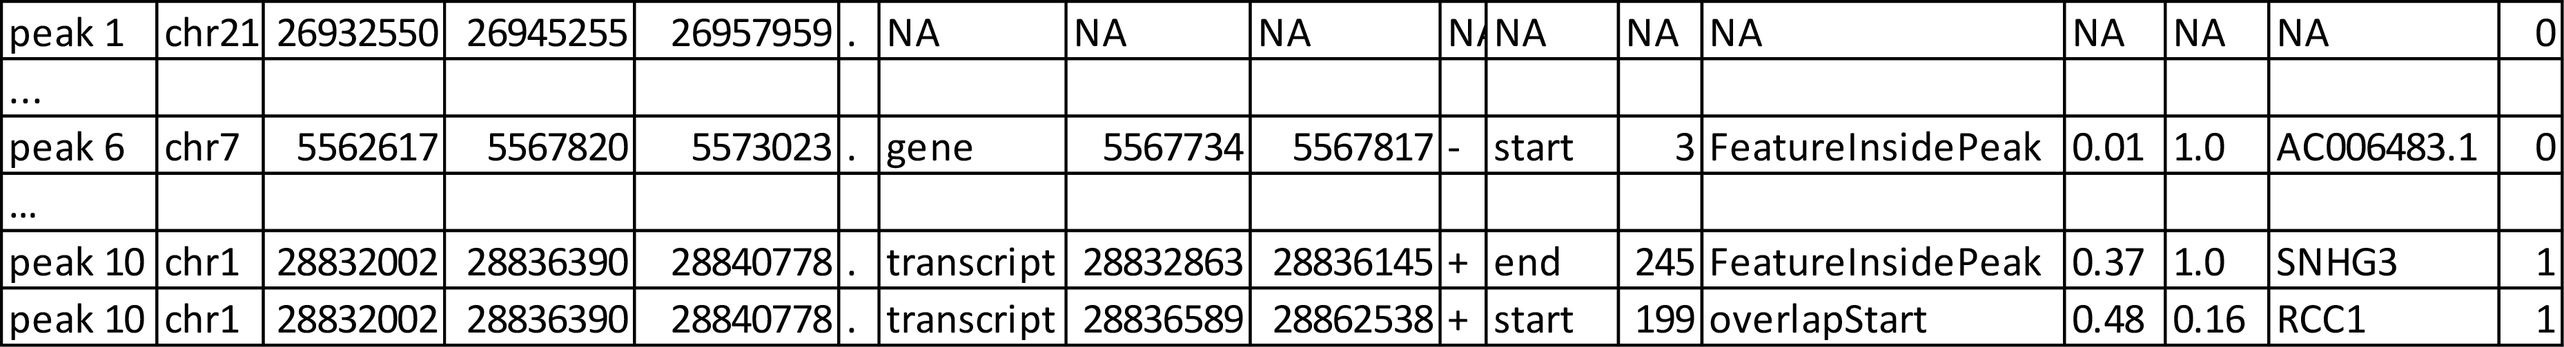
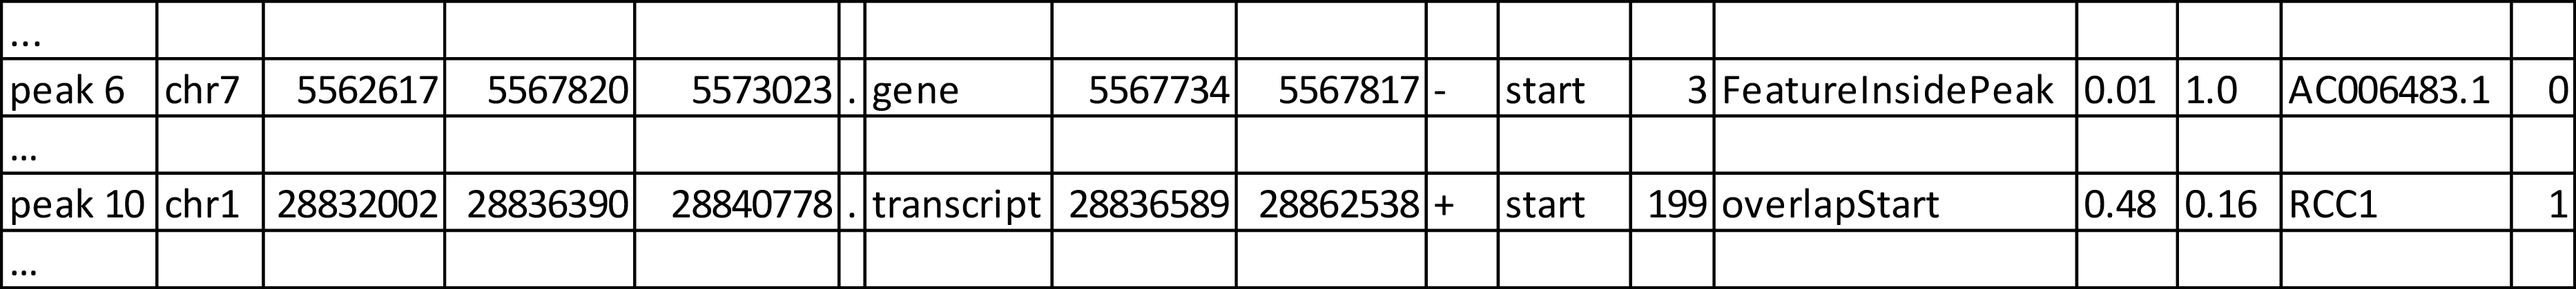
refreshed priority example

Changed region(s): [[0.0, 0.0, 1.0, 1.0]]

diff --git a/docs/uropa-example.md b/docs/uropa-example.md
@@ -44,7 +44,7 @@ Concerning the other output tables,
 
 
 **Note** : Similar cases of peaks being internally to the genomic region of a feature (and also features being internally to a peak region) 
-can be well-annotated using the key 'internals'. A example for this is presented in [TODO](todo).
+can be well-annotated using the key 'internals'. A example for this is presented in [Example 3](http://uropa.readthedocs.io/en/latest/uropa-example/#example-3-internals-key).
 
 
 
@@ -201,74 +201,57 @@ More than one query can be given, keeping the same gtf and bed files, allowing f
 If there are more queries, it is important to decide if they should be priorized. This can be done with the priority key in the config file.   
 The following examples illustrate how this can be beneficial for the annotation.
 
-The queries in the config file looks like the following.
-
 This example is based on POLR2A peaks annotated with the Ensembl genome. 
 Source files can be found here :[gtf and bed source files](http://uropa.readthedocs.io/en/latest/uropa-example/#used-peak-and-annotation-files)
 
-Configuration for the first annotation:
+Configuration for the first annotation with priority false:
 ```json
 {"queries": [{"feature":"gene", "distance":1000, "show.attributes":"gene_name"},     
-			{"feature":"transcript", "distance":1000 }], 
- "priority" : "False",
+			{"feature":"transcript", "distance":1000}], 
  "gtf":"Homo_sapiens.GRCh37.75_chr.gtf" ,
  "bed":"ENCFF001VFA.bed"
 }
 ```
 
-The above set of queries will allow UROPA to annotate peaks for genes and transcripts. As priority is False (default if no different value given),there is no feature priorized. 
-
-There can be three cases for the peak annotation: 
-
-* **Case 1**: No query gives any feature for annotating the peaks. 
-	
-* **Case 2**: One query gives a feature but the other not. 
-	
-* **Case 3**: Both queries validate features overlapping with the peaks.  
+The above set of queries will allow UROPA to annotate peaks for genes and transcripts. As priority is False (default), there is no query priorized. 
+As presented in the AllHits Table 6, there are valid annotations for peak 6 with both queries. The annotation for the feature gene would be presented in the FinalHits. In the BestperQuery_Hits both annotations with the minimum distance of 3 would be presented. 
+If there are multiple annotations with minimal distance, only the first one is represented in FinalHits.
+For peak 10, there are only valid annotations for the second query, the annotation for the gene *RCC1* correspond to the best annotation and would be resprented in the FinalHits. 
 
 ![table6](img/example-table-06.png)	
 	
-_Table 6: AllHits for two queries with priority='False'._
+_Table 6: AllHits for two queries with priority='False'.
 
-'peak_1' represents **Case 1**  where both queries validate no feature at all. In this case the peak is represented by 'NA' rows, for each query. 
-	
-**Case 2** is represented by 'peak_10', which has two annotations for the transcript feature but not the gene feature.       
-	
-'peak_6' is an example for the **Case 3** , with annotations for both queries. Transcripts (*ACTB*) are found by query 1 and a gene (*AC006483.1*) by query 0.
-	
-Concerning the other output tables, 
-
-* FinalHits will contain one NA row for peak_1 combining queries 0 and 1. The final hit for peak_6 will be the the hit for feature gene, distance 3bp. If there are more hits with same min distance for one peak, the first one will be displayed. Fore peak_10 the annotation for gene *RCC1* would be displayed.  
-
-* BestperQuery_Hits contains one NA row for both queries for peak_1. For peak_6 the best annotation for both queries would be represented, those with distance 3bp. The peak_10 will have one NA row for query 0 and the annotation for gene *RCC1* for query 1. 
+The column order is: peak_id, peak_chr, peak_start, peak_center, peak_end, peak_strand, feature, feat_start, feat_end, feat_strand, distance, feat_anchor, genomic_location, feat_ovl_peak, peak_ovl_feat, gene_name, gene_type, query_
 
 
-Configuration for the second annotation:
+
+Configuration for the second annotation with priority true:
 ```json
-{"queries": [	{"feature":"gene", "distance":1000, "show.attributes":"gene_name"}, 
-				{"feature":"transcript", "distance":1000 }], 
+{"queries":[{"feature":"gene", "distance":1000, "show.attributes":"gene_name"}, 
+			{"feature":"transcript", "distance":1000}], 
  "priority" : "True",
  "gtf":"Homo_sapiens.GRCh37.75_chr.gtf" ,
  "bed":"ENCFF001VFA.bed"
 }
 ```
 
-If 'priority' is 'True', UROPA will annotate peaks with the **first feature given** in the set of queries. Unless genes are not found for a peak, 'transcripts' will then be searched and validated by the query’s parameters in order to be assigned to a peak. The example is based on the same three cases, explained above.
-That is why there will be no peak in the output tables annotated for both features at the same time. 
-Each peak is allowed to have the 1st feature or the 2nd, or the 3rd, etc.
+If 'priority' is 'True', UROPA will annotate peaks with the **first feature given** in the set of queries. 
+Unless genes are not found for a peak, transcripts will then be validated by the query’s parameters in order to be assigned to a peak. 
+The example is based on the same cases as above but the AllHits Table 7 already looks different.
+Because for peak 6 there was a valid annotation for query 0, query 1 is not analyzed due to priorization. For peak 10, there was no valid annotation for query 0, thus query 1 was analyzed and valid annotation was identified. 
 
-The first difference to the example without priority is that in 'AllHits' [Table 4], the peaks with no annotation for both queries are merged in one line and both queries are reported.    
-This is why the entries for peaks without any annotation will look the same in 'AllHits' and 'BestHits'.
-In the case of  'peak_6'  there is an annotation for the priorized query 0, so the other query is not further analyzed. 
-    
-For 'peak_10' there was no annotation identified for the query 0, but two 'transcripts' are found for query-1. The annotation with the closest distance, *SNHG3*  is displayed at the BestHits (Table 5).	
-	
-![table7](img/example-table-07.png )
+** Attention ** 
+
+* For priority true there will not be an NA row for queries without valid annotations in case that one specified query provides a valid annotation. 
+* If there is no valid annotation for a peak across all queries, there is a combined NA row for all queries (NA NA ... NA 0,1)
+* The will be no BestperQuery_Hits if priority is true, because there is only one final annotation per peak
+
+![table7](img/example-table-07.png)
 _Table 7: AllHits with two queries with priority='True'.
 
 The column order is: peak_id, peak_chr, peak_start, peak_center, peak_end, peak_strand, feature, feat_start, feat_end, feat_strand, distance, feat_anchor, genomic_location, feat_ovl_peak, peak_ovl_feat, gene_name, gene_type, query_
-	
-So, in the case of 'priority' = True, the features are mutually exclusive, and the queries are parsed for valid hits in an escalating priority.
+
 	
 Used peak and annotation files 
 ------------------------------ 

diff --git a/docs/output.md b/docs/output.md
@@ -122,6 +122,8 @@ _Table 5: Uropa_BestperQuery_Hits for multiple queries
 
 The column order is: peak_id, peak_chr, peak_start, peak_center, peak_end, peak_strand, feature, feat_start, feat_end, feat_strand, distance, feat_anchor, genomic_location, feat_ovl_peak, peak_ovl_feat, gene_name, gene_type, query_
 
+**Note** The BestperQuery_Hits is only generated if multiple queries are specified and the priority flag is set to FALSE! If this flag is TRUE, there will be only one valid query. There can be multiple valid annotations for one peak, but all based on one query.
+
 Same as in the example with one query, peak_355 has no valid annotation at all and is represented as NA row in all produced output tables, correspond to Case 1. In the AllHits (Table 3) and BestperQuery_Hits (Table 5) there will be one NA row for each query, but in the FinalHits (Table 4) there will be only one NA row for all queries. 
 The peak_356 has only for one query a valid annotation, this presented in AllHits, FinalHits, and BestperQuery_Hits conform to Case 2. In AllHits and BestperQuery_Hits there are additional NA rows for this peak for the other queries. 
 For peak_765 there are valid annotations for all queries as displayed in the AllHits, representing Case 4. The best of them with the smalles distance is the annotation for the lincRNA, this annotation is displayed in the FinalHits. 
@@ -143,7 +145,6 @@ The column order is: peak_id, peak_chr, peak_start, peak_center, peak_end, peak_
 _Table 6.2: Uropa_Reformatted_HitsperPeak for multiple queries part two
 
 The column order is: feature, feat_start, feat_end, feat_strand, distance, feat_anchor, genomic_location, feat_ovl_peak, peak_ovl_feat, gene_name, gene_type, query_
-
 
 
 

diff --git a/docs/help.md b/docs/help.md
@@ -13,5 +13,6 @@ Here some frequently asked questions are answered:
 * **How to annotate with default values?**
 	In order for the default values to be active, the key itself shouldn't be present and empty in the config file. So if only some keys should be default, leave them out.
 	If you want to annotate with only default values, do not remove the queries key, but leave it empty like "queries":[] **ATTENTION** annotated peaks will be displayed without any assignment, so you do not know what for the peaks are annotated!
-
+* **Where are multiple best hits in FinalHits?**
+	If there are multiple annotations with the same distance representing the best annotation (minimal distance), only the first will be represented in the FinalHits. If an overview about all is requested, the AllHits can be used. 
 Got any other questions? Contact maria.kondili@mpi-bn.mpg.de
